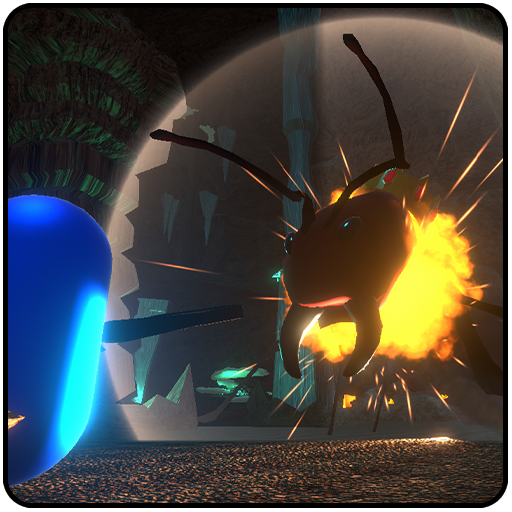
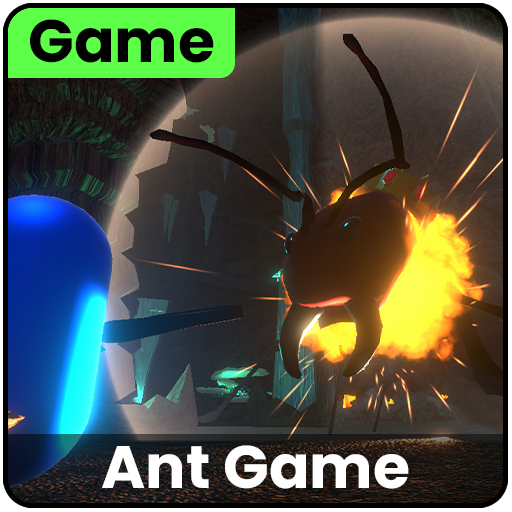
Updated images for portfolio page

Changed region(s): [[0.0, 0.8438, 1.0, 1.0], [0.0, 0.0, 0.4688, 0.1562]]

diff --git a/portfolio.html b/portfolio.html
@@ -34,7 +34,7 @@
             <a target="_blank" href="https://martijn24.itch.io/antgame">
                 <img src="assets/portfolio-images/Ant-Game.png" alt="Ant-Game" width="600" height="400">
             </a>
-            <div class="desc">[GAME] Ant-Game</div>
+
         </div>
     </div>
 
@@ -44,7 +44,7 @@
             <a target="_blank" href="https://sebas111.itch.io/plant-game">
                 <img src="assets/portfolio-images/Plant-Game.png" alt="Plant-Game" width="600" height="400">
             </a>
-            <div class="desc">[GAME] Plant-Game</div>
+
         </div>
     </div>
 
@@ -54,7 +54,7 @@
                 href="https://propedeuse-gd.dev.hihva.nl/2022-2023/blok-2/jacobsv3_schotsa1_Retro_Run/game/">
                 <img src="assets/portfolio-images/Retro-Runner.png" alt="Retro-Runner" width="600" height="400">
             </a>
-            <div class="desc">[GAME] Retro-Runner</div>
+
         </div>
     </div>
 
@@ -63,7 +63,7 @@
             <a target="_blank" href="https://martijnschots.com/">
                 <img src="assets/portfolio-images/martijnschots.com.png" alt="martijnschots" width="600" height="400">
             </a>
-            <div class="desc">[SITE] martijnschots.com</div>
+
         </div>
     </div>
 
@@ -72,7 +72,7 @@
             <a target="_blank" href="https://itzbrenden.com/">
                 <img src="assets/portfolio-images/itzbrenden.com.png" alt="itzbrenden" width="600" height="400">
             </a>
-            <div class="desc">[SITE] itzbrenden.com</div>
+
         </div>
     </div>
 
@@ -82,7 +82,7 @@
                 href="https://propedeuse-gd.dev.hihva.nl/2022-2023/blok-1/Anne_Martijn_Schots_SpaceInvaders/game/">
                 <img src="assets/portfolio-images/Space-Invaders.png" alt="spaceinvaders" width="600" height="400">
             </a>
-            <div class="desc">[GAME] Basic Space Invaders</div>
+
         </div>
     </div>
 
@@ -91,7 +91,7 @@
             <a target="_blank" href="https://oege.ie.hva.nl/~schotsa1/BulletHellGame/">
                 <img src="assets/portfolio-images/Bullet-Hell-Prototype.png" alt="Bullet Hell" width="600" height="400">
             </a>
-            <div class="desc">[GAME] Bullet Hell Prototype</div>
+
         </div>
     </div>
 
